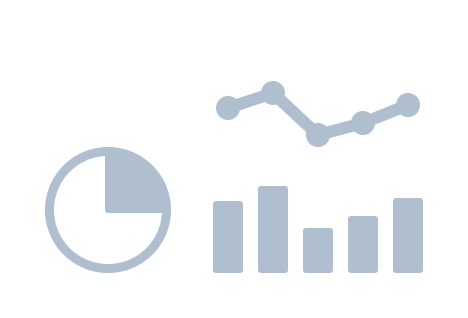
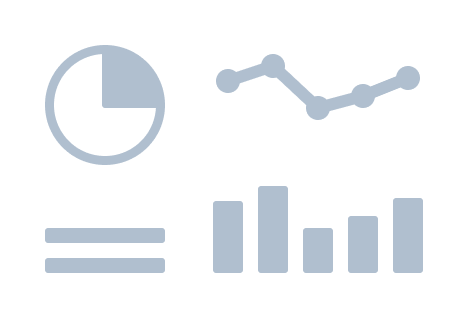
Handle dashboard right layout toggle.

Changed region(s): [[0.0897, 0.1415, 0.3889, 0.8774], [0.4487, 0.1698, 0.8974, 0.4811]]

diff --git a/lib/modules/dashboard/dashboard.dart b/lib/modules/dashboard/dashboard.dart
@@ -15,6 +15,9 @@ import 'package:url_launcher/url_launcher.dart';
 class DashboardController {
 
   final ValueNotifier<bool> canGoBack = ValueNotifier(false);
+  final ValueNotifier<bool> hasRightLayout = ValueNotifier(false);
+  final ValueNotifier<bool> rightLayoutOpened = ValueNotifier(false);
+
   final _DashboardState dashboardState;
   DashboardController(this.dashboardState);
 
@@ -30,6 +33,18 @@ class DashboardController {
     canGoBack.value = await canGoBackFuture;
   }
 
+  onHasRightLayout(bool _hasRightLayout) {
+    hasRightLayout.value = _hasRightLayout;
+  }
+
+  onRightLayoutOpened(bool _rightLayoutOpened) {
+    rightLayoutOpened.value = _rightLayoutOpened;
+  }
+
+  Future<void> toggleRightLayout() async {
+    await dashboardState._toggleRightLayout();
+  }
+
   Future<void> activateDashboard() async {
     await dashboardState._activateDashboard();
   }
@@ -40,6 +55,8 @@ class DashboardController {
 
   dispose() {
     canGoBack.dispose();
+    hasRightLayout.dispose();
+    rightLayoutOpened.dispose();
   }
 
 }
@@ -187,6 +204,15 @@ class _DashboardState extends TbContextState<Dashboard, _DashboardState> {
     await controller.postWebMessage(message: webMessage, targetOrigin: Uri.parse('*'));
   }
 
+  Future<void> _toggleRightLayout() async {
+    var controller = await _controller.future;
+    var windowMessage = <String, dynamic>{
+      'type': 'toggleDashboardLayout'
+    };
+    var webMessage = WebMessage(data: jsonEncode(windowMessage));
+    await controller.postWebMessage(message: webMessage, targetOrigin: Uri.parse('*'));
+  }
+
   @override
   Widget build(BuildContext context) {
     return WillPopScope(
@@ -217,8 +243,17 @@ class _DashboardState extends TbContextState<Dashboard, _DashboardState> {
                             onWebViewCreated: (webViewController) {
                               log.debug("onWebViewCreated");
                               webViewController.addJavaScriptHandler(handlerName: "tbMobileDashboardLoadedHandler", callback: (args) async {
-                                log.debug("Invoked tbMobileDashboardLoadedHandler");
+                                bool hasRightLayout = args[0];
+                                bool rightLayoutOpened = args[1];
+                                log.debug("Invoked tbMobileDashboardLoadedHandler: hasRightLayout: $hasRightLayout, rightLayoutOpened: $rightLayoutOpened");
+                                _dashboardController.onHasRightLayout(hasRightLayout);
+                                _dashboardController.onRightLayoutOpened(rightLayoutOpened);
                                 dashboardLoading.value = false;
+                              });
+                              webViewController.addJavaScriptHandler(handlerName: "tbMobileDashboardLayoutHandler", callback: (args) async {
+                                bool rightLayoutOpened = args[0];
+                                log.debug("Invoked tbMobileDashboardLayoutHandler: rightLayoutOpened: $rightLayoutOpened");
+                                _dashboardController.onRightLayoutOpened(rightLayoutOpened);
                               });
                               webViewController.addJavaScriptHandler(handlerName: "tbMobileDashboardStateNameHandler", callback: (args) async {
                                 log.debug("Invoked tbMobileDashboardStateNameHandler: $args");

diff --git a/lib/modules/dashboard/main_dashboard_page.dart b/lib/modules/dashboard/main_dashboard_page.dart
@@ -63,6 +63,9 @@ class MainDashboardPage extends TbContextWidget<MainDashboardPage, _MainDashboar
 class _MainDashboardPageState extends TbContextState<MainDashboardPage, _MainDashboardPageState> {
 
   late ValueNotifier<String> dashboardTitleValue;
+  final ValueNotifier<bool> hasRightLayout = ValueNotifier(false);
+  final ValueNotifier<bool> rightLayoutOpened = ValueNotifier(false);
+  DashboardController? _dashboardController;
 
   @override
   void initState() {
@@ -104,7 +107,27 @@ class _MainDashboardPageState extends TbContextState<MainDashboardPage, _MainDas
                     child: Text(title)
                 );
               },
-            )
+            ),
+            actions: [
+              ValueListenableBuilder<bool>(
+                valueListenable: hasRightLayout,
+                builder: (context, _hasRightLayout, widget) {
+                  if (_hasRightLayout) {
+                    return IconButton(
+                        onPressed: () => _dashboardController?.toggleRightLayout(),
+                        icon: ValueListenableBuilder<bool>(
+                          valueListenable: rightLayoutOpened,
+                          builder: (context, _rightLayoutOpened, widget) {
+                            return Icon(_rightLayoutOpened ? Icons.arrow_back : Icons.menu);
+                          }
+                        )
+                    );
+                  } else {
+                    return SizedBox.shrink();
+                  }
+                }
+              )
+            ],
         ),
         body: Dashboard(
             tbContext,
@@ -113,8 +136,15 @@ class _MainDashboardPageState extends TbContextState<MainDashboardPage, _MainDas
               dashboardTitleValue.value =  title;
             },
             controllerCallback: (controller) {
+              _dashboardController = controller;
               if (widget._controller != null) {
                 widget._controller!._setDashboardController(controller);
+                controller.hasRightLayout.addListener(() {
+                  hasRightLayout.value = controller.hasRightLayout.value;
+                });
+                controller.rightLayoutOpened.addListener(() {
+                  rightLayoutOpened.value = controller.rightLayoutOpened.value;
+                });
               }
             }
         )
